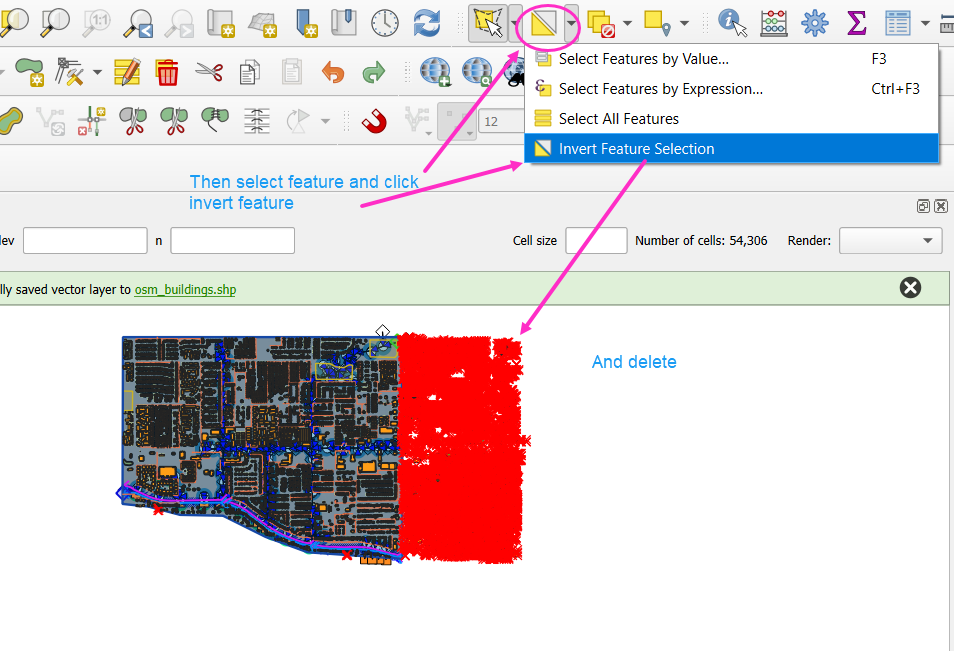
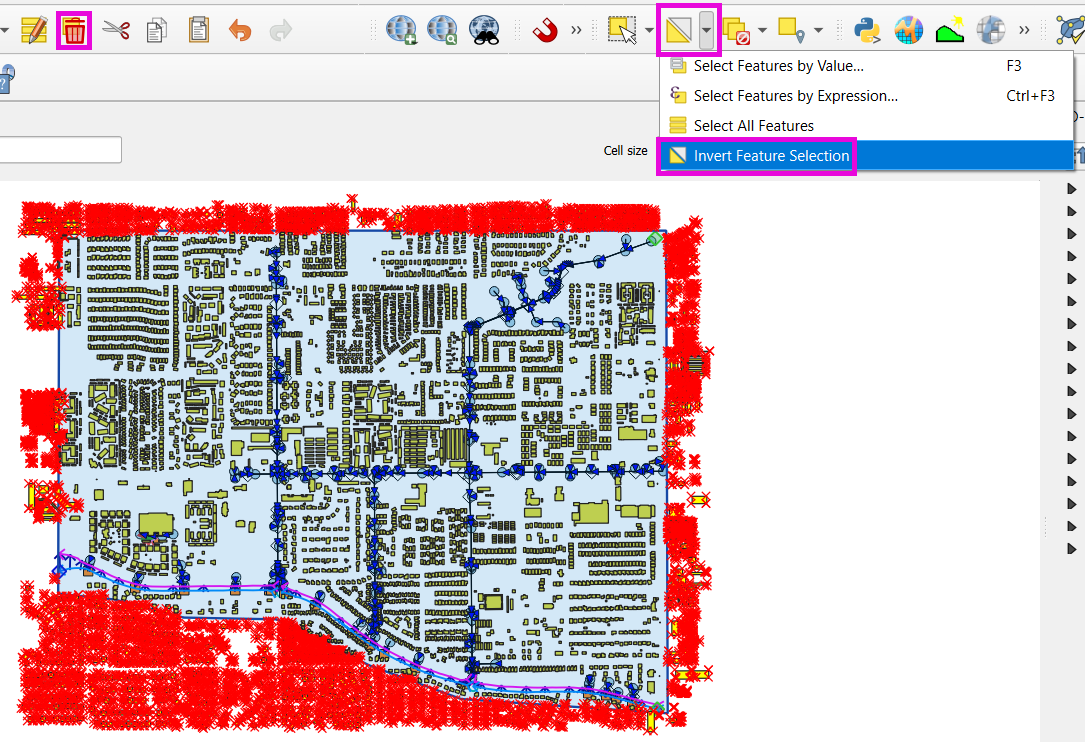
Buildings revision: Updating Bshg03_014.png, Bshg03_015.png, Bshg03_016.png

diff --git a/source/tutorials/Self-Help-Kit-Gila/6-Buildings.rst b/source/tutorials/Self-Help-Kit-Gila/6-Buildings.rst
@@ -157,20 +157,19 @@ Download Building Polygons (Optional)
 
         <h3> Step 5: Crop to Project Boundary </h3>
 
-    .. image:: ../img/shg/6/Bshg03_0014.png
-
     - Use **Select by Location**:
 
         - Select features from ``osm_buildings``.
         - Where the feature is **within** the computational domain layer.
 
+    .. image:: ../img/shg/6/Bshg03_0014.png
+
     .. image:: ../img/shg/6/Bshg03_0015.png
 
-    - Delete unselected features (those outside your project area).
+    - Use Invert Feature Selection tool and the Delete button to
+      delete unselected features (those outside the project area).
 
     .. image:: ../img/shg/6/Bshg03_0016.png
-
-    .. image:: ../img/shg/6/Bshg03_0017.png
 
     .. raw:: html
 
